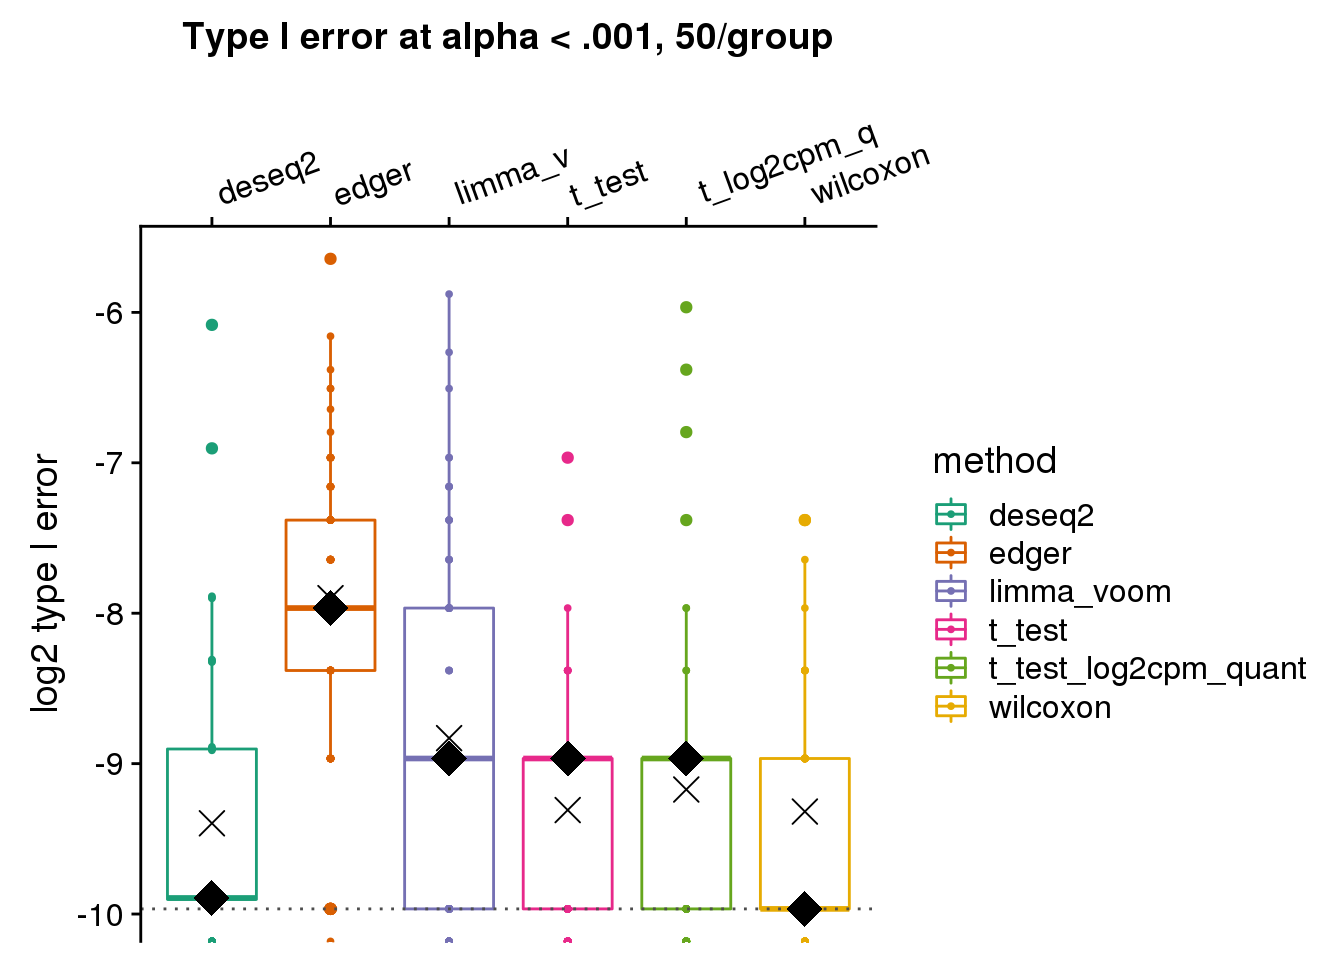
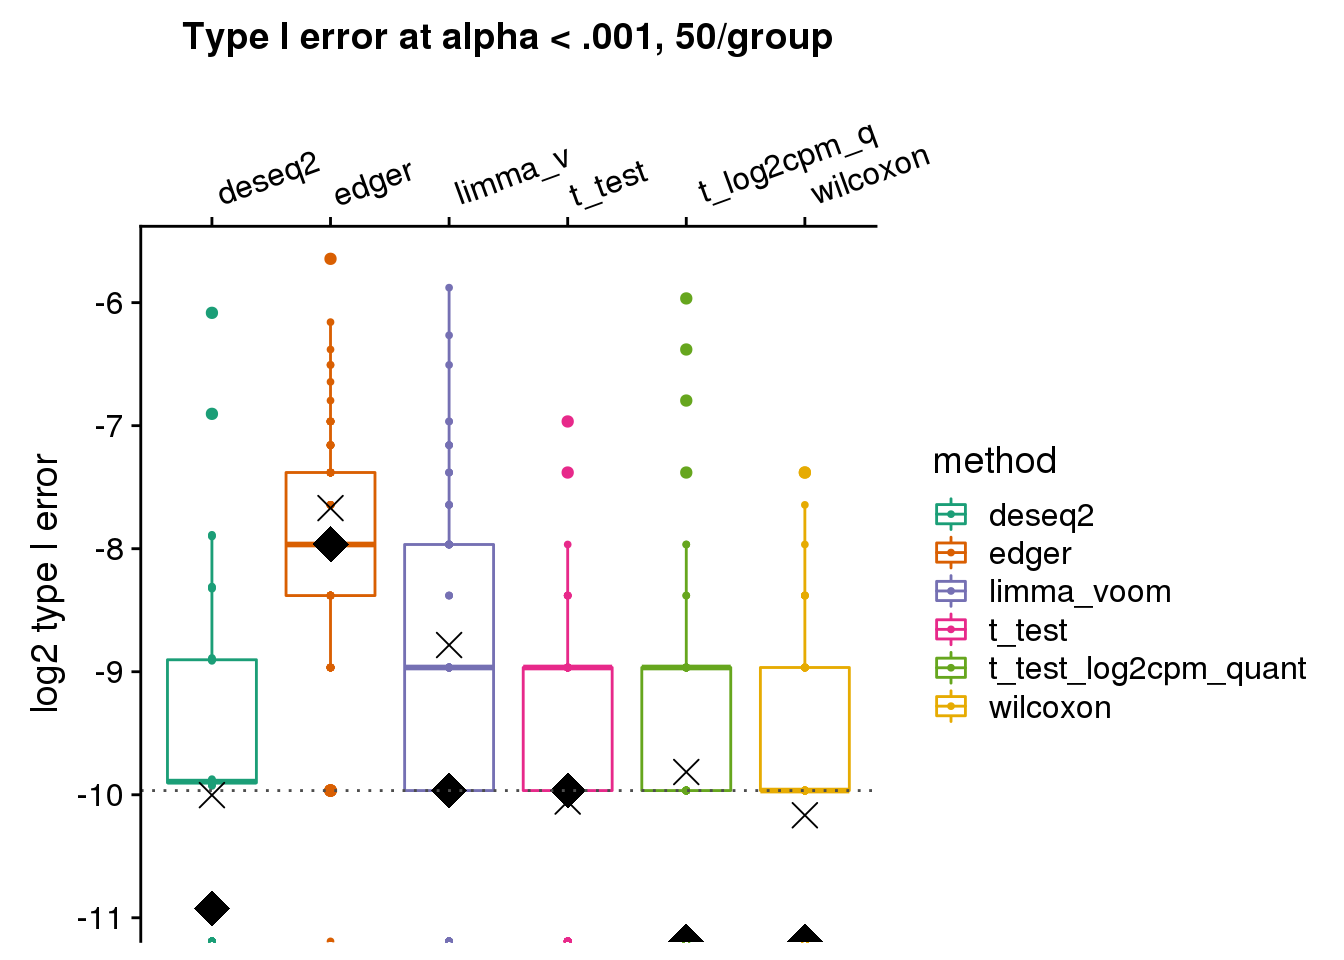
Build site.

diff --git a/docs/eval_initial_type1.html b/docs/eval_initial_type1.html
@@ -348,10 +348,10 @@ This reproducible <a href="http://rmarkdown.rstudio.com">R Markdown</a> analysis
 <div class="panel panel-default">
 <div class="panel-heading">
 <p class="panel-title">
-<a data-toggle="collapse" data-parent="#workflowr-checks" href="#strongRepositoryversionstrongahrefhttpsgithubcomstephenslabdsclogfoldchangetreec422a07b0435b775095d49fbe36ca04f541e9ee1targetblankc422a07a"> <span class="glyphicon glyphicon-ok text-success" aria-hidden="true"></span> <strong>Repository version:</strong> <a href="https://github.com/stephenslab/dsc-log-fold-change/tree/c422a07b0435b775095d49fbe36ca04f541e9ee1" target="_blank">c422a07</a> </a>
+<a data-toggle="collapse" data-parent="#workflowr-checks" href="#strongRepositoryversionstrongahrefhttpsgithubcomstephenslabdsclogfoldchangetree7cf6acead8c8461c8e2050ab0ff836b5859d80c6targetblank7cf6acea"> <span class="glyphicon glyphicon-ok text-success" aria-hidden="true"></span> <strong>Repository version:</strong> <a href="https://github.com/stephenslab/dsc-log-fold-change/tree/7cf6acead8c8461c8e2050ab0ff836b5859d80c6" target="_blank">7cf6ace</a> </a>
 </p>
 </div>
[2 lines of base64/hex data omitted]
 <div class="panel-body">
 <p>
 Great! You are using Git for version control. Tracking code development and connecting the code version to the results is critical for reproducibility. The version displayed above was the version of the Git repository at the time these results were generated. <br><br> Note that you need to be careful to ensure that all relevant files for the analysis have been committed to Git prior to generating the results (you can use <code>wflow_publish</code> or <code>wflow_git_commit</code>). workflowr only checks the R Markdown file, but you know if there are other scripts or data files that it depends on. Below is the status of the Git repository when the results were generated:
@@ -369,6 +369,7 @@ Ignored files:
 
 Untracked files:
     Untracked:  analysis/eval_initial_type1_libsize.Rmd
+    Untracked:  analysis/gtex_type1.Rmd
 
 Unstaged changes:
     Modified:   analysis/index.Rmd
@@ -412,6 +413,40 @@ Message
 </tr>
 </thead>
 <tbody>
+<tr>
+<td>
+Rmd
+</td>
+<td>
+<a href="https://github.com/stephenslab/dsc-log-fold-change/blob/7cf6acead8c8461c8e2050ab0ff836b5859d80c6/analysis/eval_initial_type1.Rmd" target="_blank">7cf6ace</a>
+</td>
+<td>
+Joyce Hsiao
+</td>
+<td>
+2019-04-29
+</td>
+<td>
+mean of log to log of mean
+</td>
+</tr>
+<tr>
+<td>
+html
+</td>
+<td>
+<a href="https://rawcdn.githack.com/stephenslab/dsc-log-fold-change/ec7a7c6cf85a7ef994b11bd29ec6b70ae19baf88/docs/eval_initial_type1.html" target="_blank">ec7a7c6</a>
+</td>
+<td>
+Joyce Hsiao
+</td>
+<td>
+2019-04-29
+</td>
+<td>
+Build site.
+</td>
+</tr>
 <tr>
 <td>
 Rmd
@@ -663,6 +698,17 @@ Date
 <tbody>
 <tr>
 <td>
+<a href="https://github.com/stephenslab/dsc-log-fold-change/blob/ec7a7c6cf85a7ef994b11bd29ec6b70ae19baf88/docs/figure/eval_initial_type1.Rmd/unnamed-chunk-3-1.png" target="_blank">ec7a7c6</a>
+</td>
+<td>
+Joyce Hsiao
+</td>
+<td>
+2019-04-29
+</td>
+</tr>
+<tr>
+<td>
 <a href="https://github.com/stephenslab/dsc-log-fold-change/blob/ffdcfcc9c1fdc4bee07b92bb6e31ffb6e3085439/docs/figure/eval_initial_type1.Rmd/unnamed-chunk-3-1.png" target="_blank">ffdcfcc</a>
 </td>
 <td>
@@ -738,6 +784,17 @@ Date
 <tbody>
 <tr>
 <td>
+<a href="https://github.com/stephenslab/dsc-log-fold-change/blob/ec7a7c6cf85a7ef994b11bd29ec6b70ae19baf88/docs/figure/eval_initial_type1.Rmd/unnamed-chunk-3-2.png" target="_blank">ec7a7c6</a>
+</td>
+<td>
+Joyce Hsiao
+</td>
+<td>
+2019-04-29
+</td>
+</tr>
+<tr>
+<td>
 <a href="https://github.com/stephenslab/dsc-log-fold-change/blob/ffdcfcc9c1fdc4bee07b92bb6e31ffb6e3085439/docs/figure/eval_initial_type1.Rmd/unnamed-chunk-3-2.png" target="_blank">ffdcfcc</a>
 </td>
 <td>
@@ -778,19 +835,26 @@ Joyce Hsiao
                        args=list(n1, labels)) {
   n_methods &lt;- length(unique(res$method))
   cols &lt;- RColorBrewer::brewer.pal(n_methods,name=&quot;Dark2&quot;)
-  res %&gt;% filter(n1==args$n1) %&gt;% 
+  res_plot &lt;- res %&gt;% filter(n1==args$n1) %&gt;% 
     group_by(method, seed) %&gt;%
-    summarise(type1=mean(pval&lt;alpha, na.rm=T), nvalid=sum(!is.na(pval))) %&gt;%
-#    group_by(method) %&gt;%
+    summarise(type1=mean(pval&lt;alpha, na.rm=T), nvalid=sum(!is.na(pval))) 
+  
+  res_plot_mn &lt;- res_plot %&gt;% group_by(method) %&gt;%
+    summarise(mn=mean(type1, na.rm=T),
+              med=median(type1, na.rm=T))
     # summarise(mn=mean(type1, na.rm=T), 
     #           n=sum(!is.na(type1)), se=sd(type1, na.rm=T)/sqrt(n)) %&gt;%
-    ggplot(., aes(x=method, y=log2(type1), col=method)) +
+    ggplot(data=res_plot, aes(x=method, y=log2(type1), col=method)) +
         # geom_errorbar(aes(ymin=mn+se, ymax=mn-se), width=.3) + 
         geom_boxplot() + geom_point(size=.7) + xlab(&quot;&quot;) +
       scale_x_discrete(position = &quot;top&quot;,
                        labels=args$labels) +
       scale_color_manual(values=cols) +
-      theme(axis.text.x=element_text(angle = 20, vjust = -.3, hjust=-.1))
+      theme(axis.text.x=element_text(angle = 20, vjust = -.3, hjust=-.1)) +
+        geom_point(data=res_plot_mn,
+                   aes(x=method, y=log2(mn)), shape=4, size=4, col=&quot;black&quot;) +
+        geom_point(data=res_plot_mn,
+                   aes(x=method, y=log2(med)), shape=18, size=6, col=&quot;black&quot;)
 }
 
 library(cowplot)
@@ -803,9 +867,7 @@ p1 &lt;- make_plots_log2(res_merge, alpha=.001,
                  args=list(n1=50, labels=labels)) + 
                 ggtitle(&quot;Type I error at alpha &lt; .001, 50/group&quot;) + #ylim(0,.03) +
                 geom_hline(yintercept=log2(.001), col=&quot;gray30&quot;, lty=3) +
-                ylab(&quot;log2 type I error&quot;) +
-                stat_summary(fun.y=median, geom=&quot;point&quot;, shape=18, size=6, col=&quot;black&quot;) +
-                stat_summary(fun.y=mean, geom=&quot;point&quot;, shape=4, size=4, col=&quot;black&quot;)
+                ylab(&quot;log2 type I error&quot;) 
 p1</code></pre>
 <p><img src="figure/eval_initial_type1.Rmd/unnamed-chunk-4-1.png" width="672" style="display: block; margin: auto;" /></p>
 <p>
@@ -832,6 +894,17 @@ Date
 <tbody>
 <tr>
 <td>
+<a href="https://github.com/stephenslab/dsc-log-fold-change/blob/ec7a7c6cf85a7ef994b11bd29ec6b70ae19baf88/docs/figure/eval_initial_type1.Rmd/unnamed-chunk-4-1.png" target="_blank">ec7a7c6</a>
+</td>
+<td>
+Joyce Hsiao
+</td>
+<td>
+2019-04-29
+</td>
+</tr>
+<tr>
+<td>
 <a href="https://github.com/stephenslab/dsc-log-fold-change/blob/2b9140ecdec1da37672973781b003b066e5c3e1f/docs/figure/eval_initial_type1.Rmd/unnamed-chunk-4-1.png" target="_blank">2b9140e</a>
 </td>
 <td>
@@ -845,25 +918,11 @@ Joyce Hsiao
 </table>
 </div>
 </div>
-<pre class="r"><code># 
-# p1 &lt;- make_plots(res_merge, alpha=.001,
-#                  args=list(n1=50, labels=labels)) + 
-#                 ggtitle(&quot;Type error at alpha &lt; .001, 50/group&quot;) + ylim(0,.025) +
-#                 geom_hline(yintercept=.001, col=&quot;gray30&quot;, lty=3) +
-#                 
-# p1
-
-# a &lt;- res_merge[res_merge$n1==50 &amp; res_merge$method==&quot;wilcoxon&quot;,] %&gt;%
-#   group_by(seed) %&gt;%
-#   summarise(type1=mean(pval&lt;.001, na.rm=T), nvalid=sum(!is.na(pval)))
-
-p2 &lt;- make_plots_log2(res_merge, alpha=.001,
+<pre class="r"><code>p2 &lt;- make_plots_log2(res_merge, alpha=.001,
                  args=list(n1=250, labels=labels)) + 
                 ggtitle(&quot;Type error at alpha &lt; .001, 250/group&quot;) + 
                 geom_hline(yintercept=log2(.001), col=&quot;gray30&quot;, lty=3) +
-                ylab(&quot;log2 type I error&quot;) +
-                stat_summary(fun.y=median, geom=&quot;point&quot;, shape=18, size=6, col=&quot;black&quot;) +
-                stat_summary(fun.y=mean, geom=&quot;point&quot;, shape=4, size=4, col=&quot;black&quot;)
+                ylab(&quot;log2 type I error&quot;) 
 p2</code></pre>
 <p><img src="figure/eval_initial_type1.Rmd/unnamed-chunk-4-2.png" width="672" style="display: block; margin: auto;" /></p>
 <p>
@@ -888,6 +947,17 @@ Date
 </tr>
 </thead>
 <tbody>
+<tr>
+<td>
+<a href="https://github.com/stephenslab/dsc-log-fold-change/blob/ec7a7c6cf85a7ef994b11bd29ec6b70ae19baf88/docs/figure/eval_initial_type1.Rmd/unnamed-chunk-4-2.png" target="_blank">ec7a7c6</a>
+</td>
+<td>
+Joyce Hsiao
+</td>
+<td>
+2019-04-29
+</td>
+</tr>
 <tr>
 <td>
 <a href="https://github.com/stephenslab/dsc-log-fold-change/blob/2b9140ecdec1da37672973781b003b066e5c3e1f/docs/figure/eval_initial_type1.Rmd/unnamed-chunk-4-2.png" target="_blank">2b9140e</a>
